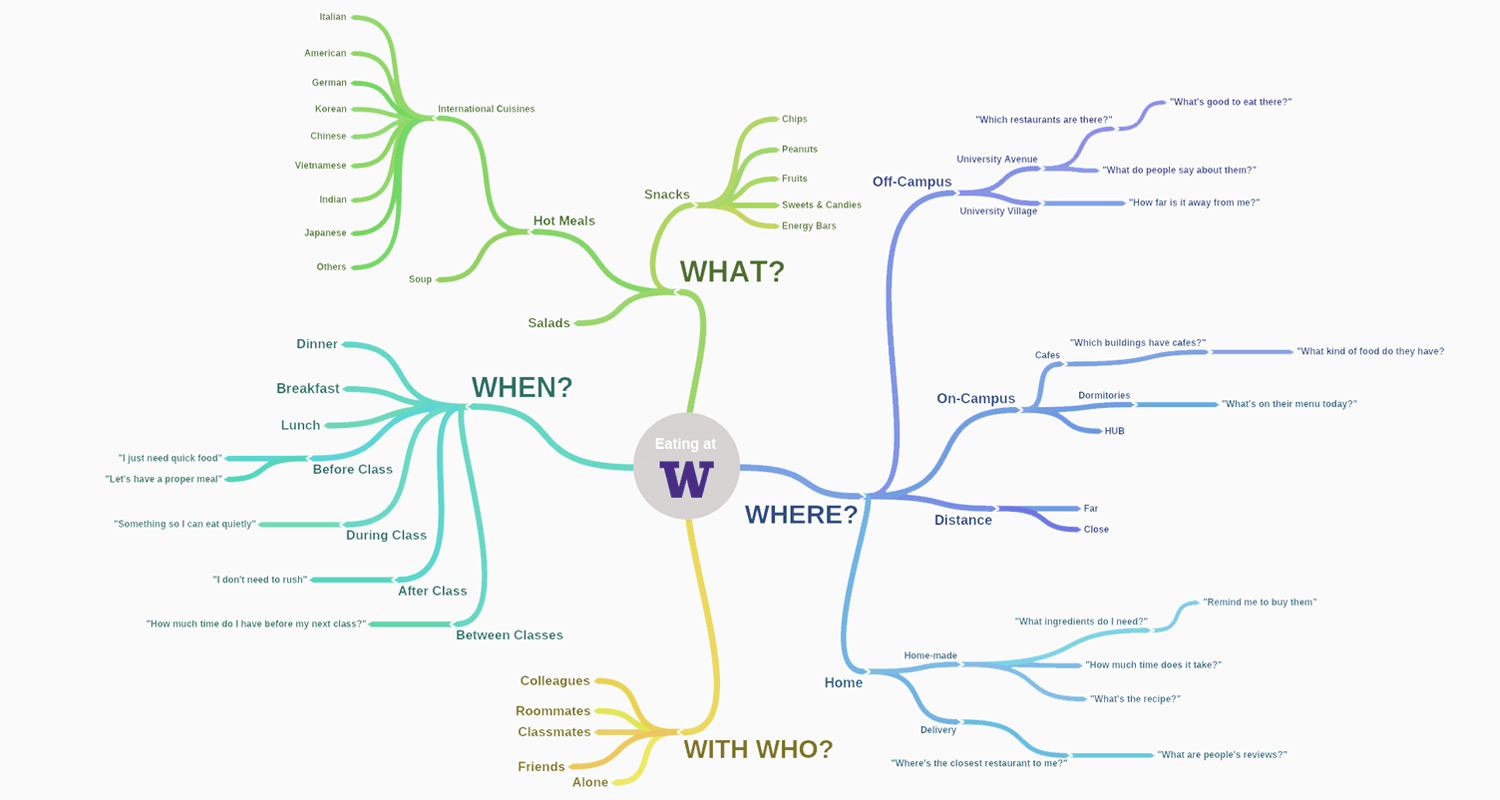
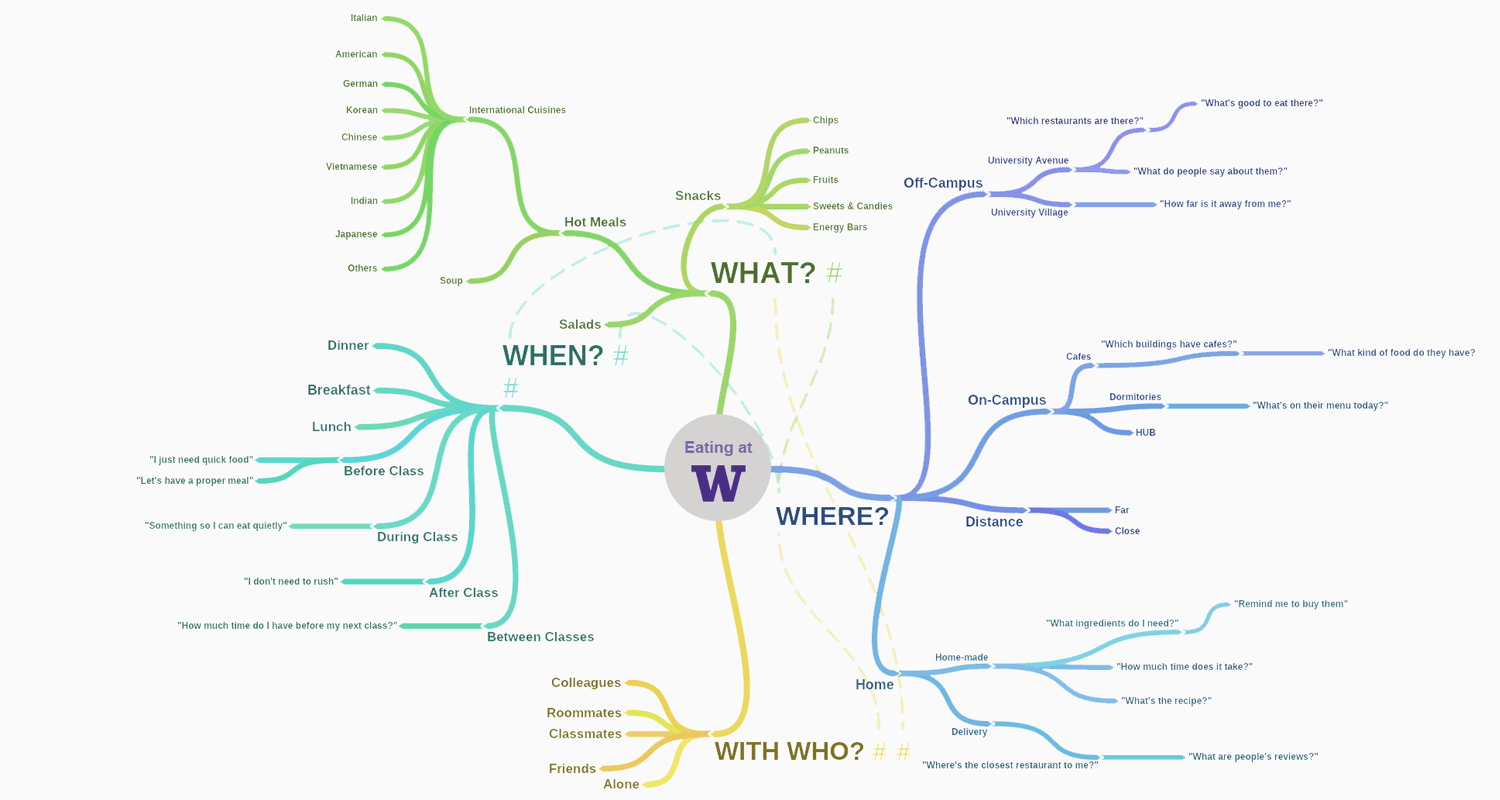
mind map update

Changed region(s): [[0.0613, 0.0, 0.9813, 1.0]]

diff --git a/huskyproject.html b/huskyproject.html
@@ -155,14 +155,18 @@
                   <img src="images/HUSKYimages/HUSKYresearch.png" alt="">
                   <p>By utilizing a mix of quantitative and qualitative research methods, we were able to paint an in-depth picture of who our users were - demographically as well as behavior-wise. At the same time, it helped us recognize patterns regarding what the users were telling us versus  how they actually act in reality. In a way, recognizing these patterns were crucial in navigating the complex network of factors that typically influence a student's decisions regarding food.</p>
 
-                  <h3>Affinity diagram</h3>
+                  <h3>Affinity diagram and mind maps</h3>
                   <p>I have to say this was one of the best memories of our project. After reviewing all of our interview and observation notes, as well as the survey response summary, we got together and produced an Affinity Diagram as a group. Using sticky notes, each person posted on the board comments, patterns, and information we gathered from the researches. We then sorted them into groups based on intuitive relationships. The goal of this exercise was two-fold:</p>
 
                   <ul>
                     <li>Organize and Condense our large, messy dataset into high-level themes that can collectively describe our users' context (super important; main objective).</li>
                     <li>Provide an early user flow as well as interaction design ideas based on the relationships presented between the themes (something to look out for; a bonus).</li>   
                   </ul>      
-                  <img src="images/HUSKYimages/HUSKYaffinity.jpg" alt="">    
+                  <img src="images/HUSKYimages/HUSKYaffinity.jpg" alt="">  
+
+                  <p>At the same time, we also came up with a set of mind maps based on our research data. Essentially, when combined with the affinity diagram, mind maps helped us draw more insights into our users' context by mapping out how different aspects of the story may influence their decision-making process.</p>
+                  <img src="images/DESIGNimages/mindmap.png" alt="">   
+                  &nbsp;
 
                   <h3>Personas</h3>
                   <p>With a clearer view of our users and their characteristics, we were definitely a big step ahead. Not only were we able to better evaluate the original design question (and accordingly revise a path to tackle it), we could now utilize the data we had to create two personas:</p>
